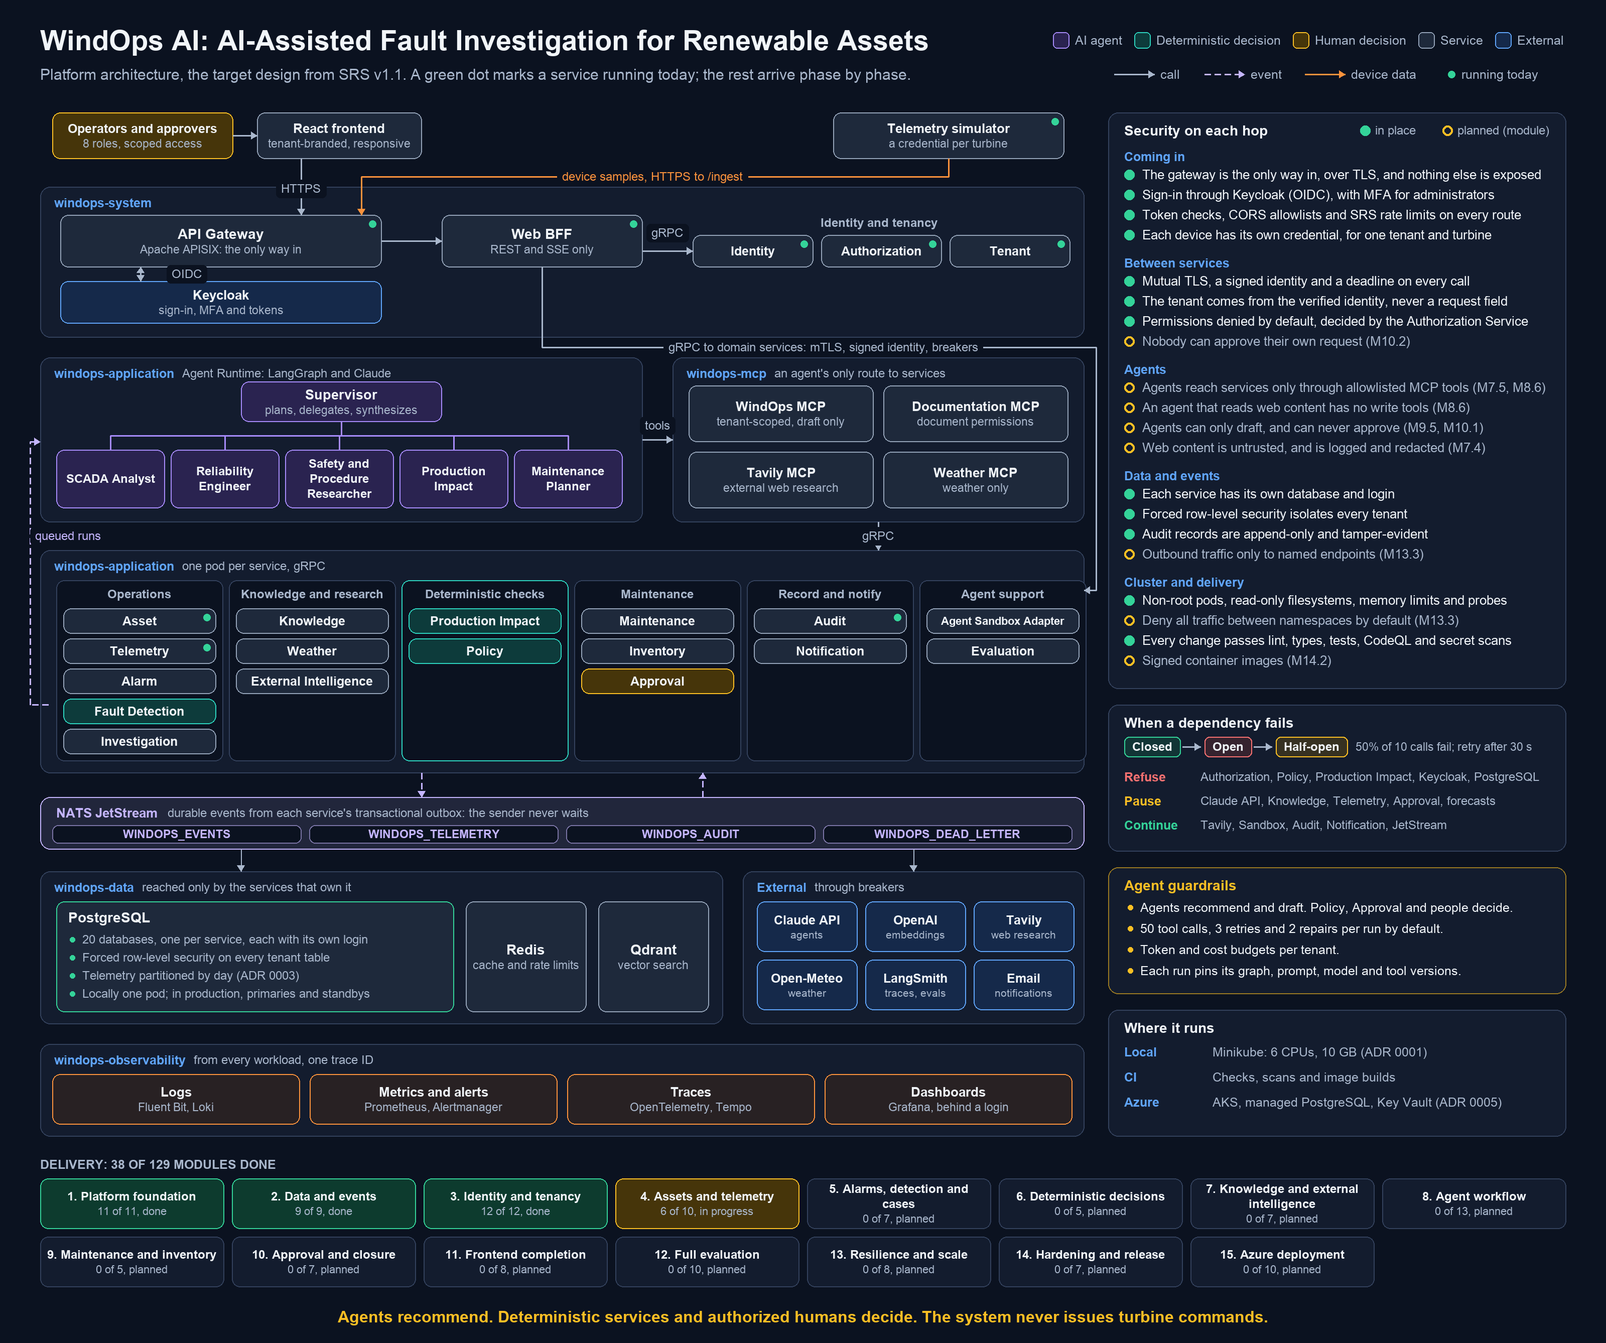
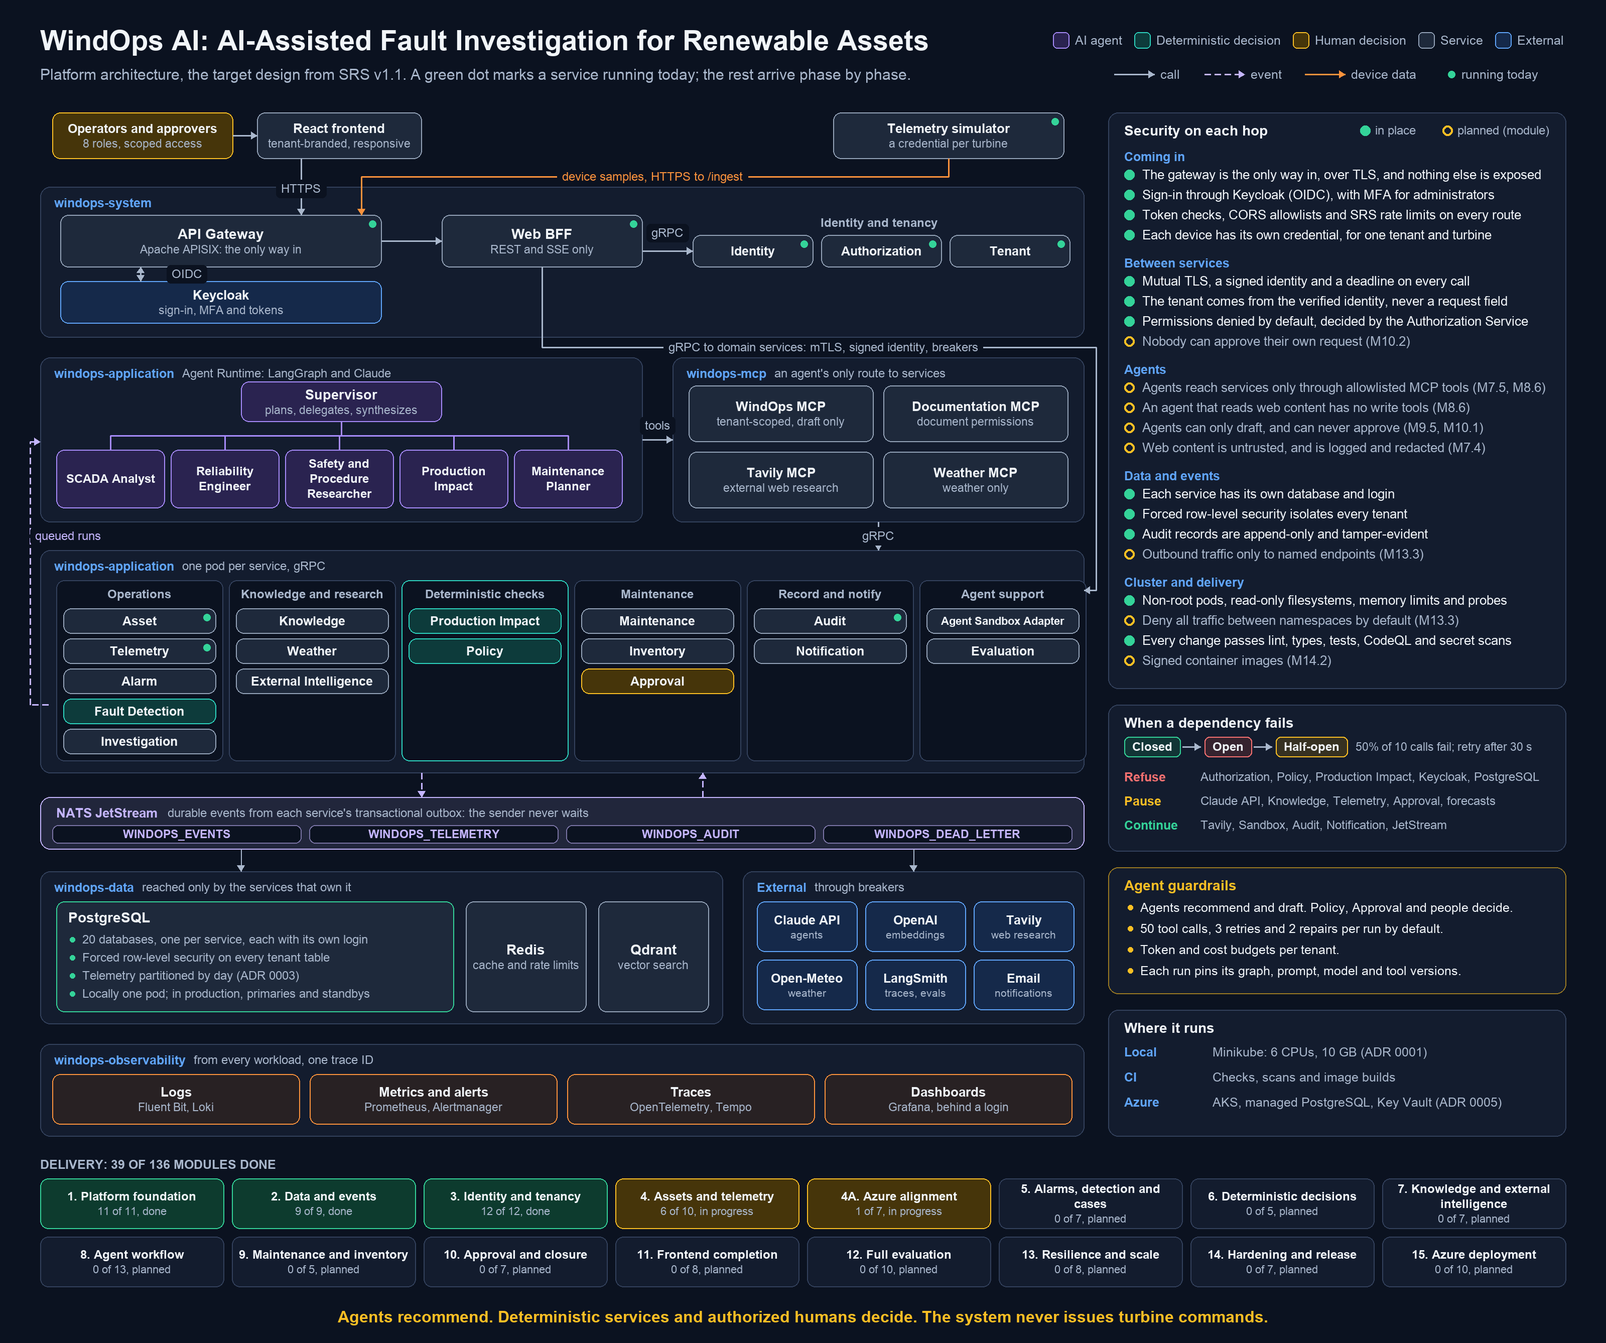
docs(adr): align the platform with Azure's reference architecture (#67)
M4A.1, opening Phase 4A before M4.7 (ADR 0006). The platform will follow
Azure's advanced AKS microservices architecture, on the AKS baseline:

- Azure Service Bus for durable events on Azure, NATS JetStream locally,
  chosen by WINDOPS_ENVIRONMENT, with the outbox unchanged.
- Microsoft Entra Workload ID for Azure resources, with no stored password.
  Internal calls keep mutual TLS and a signed identity.
- Cilium in place of Calico, locally too.
- Azure Monitor, managed Prometheus, Managed Grafana and Application
  Insights on Azure, the self-hosted stack locally.

Nothing is created in Azure without an approved plan and price. The tracker
gains Phase 4A's seven modules, the SRS records the change, Phase 15 becomes
the final deployment and hardening, and the diagram's progress strip reads
phase numbers such as 4A. AZURE_SUBSCRIPTION_ID is documented for .env,
where the real value stays.

diff --git a/tests/test_architecture_diagram.py b/tests/test_architecture_diagram.py
@@ -48,16 +48,18 @@ def test_a_control_is_not_shown_as_planned_once_its_modules_are_done() -> None:
 
 def test_roadmap_reads_all_phases_with_the_tracker_totals() -> None:
     phases = read_phase_progress()
-    assert [number for number, _, _, _ in phases] == list(range(1, 16))
-    table = dict(re.findall(r"^\| (\d+) \| \[[^\]]+\]\([^)]*\) \| (\d+) \|", TRACKER, re.M))
+    expected = [str(n) for n in range(1, 16)]
+    expected.insert(4, "4A")  # Added after Phase 4 by ADR 0006.
+    assert [number for number, _, _, _ in phases] == expected
+    table = dict(re.findall(r"^\| (\d+[A-Z]?) \| \[[^\]]+\]\([^)]*\) \| (\d+) \|", TRACKER, re.M))
     for number, _, _, total in phases:
-        assert int(table[str(number)]) == total
+        assert int(table[number]) == total
 
 
 def test_roadmap_progress_counts_ticked_modules(tmp_path: Path) -> None:
     tracker = tmp_path / "README.md"
     tracker.write_text("## Phase 1: First\n\n- [x] a\n- [ ] b\n\n## Phase 2: Second\n\n- [ ] c\n")
-    assert read_phase_progress(tracker) == [(1, "First", 1, 2), (2, "Second", 0, 1)]
+    assert read_phase_progress(tracker) == [("1", "First", 1, 2), ("2", "Second", 0, 1)]
 
 
 def test_readme_shows_the_one_architecture_diagram() -> None:

diff --git a/scripts/generate/readme_visuals.py b/scripts/generate/readme_visuals.py
@@ -372,17 +372,18 @@ def is_running(name: str) -> bool:
     )
 
 
-def read_phase_progress(tracker: Path = TRACKER) -> list[tuple[int, str, int, int]]:
+def read_phase_progress(tracker: Path = TRACKER) -> list[tuple[str, str, int, int]]:
     """Return each phase's number, name, finished modules and total modules from the tracker."""
     text = tracker.read_text()
     phases = []
-    for match in re.finditer(r"^## Phase (\d+): (.+)$", text, re.M):
+    # A phase is a number, or a number and a letter for one added between two, such as 4A.
+    for match in re.finditer(r"^## Phase (\d+[A-Z]?): (.+)$", text, re.M):
         following = text[match.end() :]
         next_heading = following.find("\n## ")
         section = following if next_heading == -1 else following[:next_heading]
         done = len(re.findall(r"^- \[x\] ", section, re.M))
         total = done + len(re.findall(r"^- \[ \] ", section, re.M))
-        phases.append((int(match.group(1)), match.group(2), done, total))
+        phases.append((match.group(1), match.group(2), done, total))
     return phases
 
 

diff --git a/docs/adr/0006-azure-aligned-platform-services.md b/docs/adr/0006-azure-aligned-platform-services.md
@@ -1,0 +1,67 @@
+# ADR 0006: Align the platform with Azure's reference architecture before M4.7
+
+**Status:** Accepted, 2026-11-09
+
+## Context
+
+The finished system will be presented as an Azure-architected platform. We compared the design with the Azure
+Architecture Center's references. The closest is the [advanced AKS microservices architecture][advanced], built on the
+[AKS baseline][baseline], with the [Protect APIs][apis] pattern at the edge, where APISIX plays API Management's part.
+Our design differed from those references in four places:
+
+| Concern | The references | Ours until now |
+| --- | --- | --- |
+| Durable messaging | Azure Service Bus | NATS JetStream |
+| A workload's identity to Azure services | Microsoft Entra Workload ID | Passwords and connection strings in Kubernetes Secrets |
+| Network plugin and policy | Azure CNI powered by Cilium | Calico |
+| Observability | Azure Monitor, managed Prometheus and Azure Managed Grafana, with Application Insights | Self-hosted Prometheus, Grafana, Loki and Tempo |
+
+ADR 0005 put all Azure work in Phase 15, at the end. Changing these four then would reach into every service late in
+the project. Doing it now, while there are still few services, costs less.
+
+The system must keep running on the 16 GB laptop (ADR 0001), where Service Bus, Workload ID and Azure Monitor do not
+exist, and Microsoft's Service Bus emulator needs about 2 GB more than the local profile has.
+
+## Decision
+
+- **Add Phase 4A, Azure alignment, before M4.7.** M4.7 waits until it is done.
+- **Every Azure service sits behind the same interface as its local counterpart.** Settings choose which one runs,
+  so a service's code is the same everywhere:
+
+  | `WINDOPS_ENVIRONMENT` | Events | Identity to data stores | Telemetry |
+  | --- | --- | --- | --- |
+  | `local` | NATS JetStream | Passwords from Kubernetes Secrets | The self-hosted stack |
+  | `dev`, `live` | Azure Service Bus | Entra Workload ID, with no stored password | Azure Monitor, managed Prometheus, Managed Grafana and Application Insights |
+
+  `WINDOPS_EVENTS_BACKEND` can override the choice of events, so a laptop can be pointed at a real Service Bus to test
+  it.
+- **Service Bus:** a topic for each subject family, a subscription for each consumer, its native dead-lettering in
+  place of our dead-letter stream, and the transactional outbox unchanged. The same event tests run against both
+  back ends, and once against a real Service Bus namespace.
+- **Workload ID** replaces stored passwords only for Azure resources: Service Bus, Azure Database for PostgreSQL and
+  Key Vault. It does not replace our own service-to-service security. Every internal call still needs mutual TLS, a
+  signed identity and a deadline.
+- **Cilium** replaces Calico everywhere, locally too, as Minikube supports it. Network policies, from M13.3, are
+  written for Cilium.
+- **Azure Monitor:** the services keep exporting OpenTelemetry. On Azure, traces and logs go to Application Insights
+  and Log Analytics, metrics to managed Prometheus, and our dashboards and alert rules are kept as code for Managed
+  Grafana. Locally, the self-hosted stack stays.
+- **Nothing is created in Azure without an approved plan with its monthly price.** This machine uses the Azure CLI's
+  signed-in session, and CI uses GitHub OIDC (ADR 0005). No Azure credential is ever a setting or a file in the
+  repository. The subscription ID, which is not secret but names the account, is `AZURE_SUBSCRIPTION_ID` in `.env`,
+  not `.env.example`. Only the deployment scripts read it, so it is not a `WINDOPS_` setting and never reaches the cluster.
+
+## Consequences
+
+- Phase 4A has seven modules. Stage 1, the code, documents and local proof, costs nothing. Stage 2 creates real Azure
+  resources to prove them, after the plan and price are approved.
+- Phase 15 becomes smaller: the full deployment, hardening and the presentation. Its foundation, Service Bus,
+  Workload ID and Azure Monitor work move earlier, into Phase 4A.
+- Two event back ends must stay equivalent. A shared test suite keeps them so.
+- Rebuilding the local cluster on Cilium removes its data. Everything on it is synthetic and can be seeded again.
+- Kept as they are, as ADR 0005 decided: APISIX as the API gateway, behind Application Gateway WAF on Azure; Redis,
+  Qdrant and Keycloak in the cluster; PostgreSQL with one database per service.
+
+[advanced]: https://learn.microsoft.com/en-us/azure/architecture/reference-architectures/containers/aks-microservices/aks-microservices-advanced
+[baseline]: https://learn.microsoft.com/en-us/azure/architecture/reference-architectures/containers/aks/baseline-aks
+[apis]: https://learn.microsoft.com/en-us/azure/architecture/web-apps/api-management/architectures/protect-apis

diff --git a/README.md b/README.md
@@ -49,7 +49,7 @@ animation illustrates the specified workflow, not a recording.
 
 ## Architecture
 
-[![WindOps AI platform architecture: AI-assisted fault investigation for renewable assets. Operators reach the React frontend, and the telemetry simulator sends device samples, both over HTTPS through the APISIX API Gateway, which checks sign-in with Keycloak. In the windops-system namespace, Web BFF calls the Identity, Authorization and Tenant services over gRPC. In windops-application, the Agent Runtime runs a Supervisor and five specialist agents, which reach services only through four MCP servers in windops-mcp. Twenty domain services, grouped by capability, call each other over gRPC with mutual TLS, a signed identity and circuit breakers, and publish durable events to four NATS JetStream streams. Each service owns its PostgreSQL database with row-level security, alongside Redis and Qdrant in windops-data, and external providers are reached through breakers. Every workload sends logs, metrics and traces to the observability stack. A side column lists the security controls on each hop, in place or planned with their module, the circuit breaker's states and failure behaviors, the agent guardrails and where the system runs. A strip shows delivery progress across all 15 phases.](docs/assets/platform-architecture.png)](docs/assets/platform-architecture.png)
+[![WindOps AI platform architecture: AI-assisted fault investigation for renewable assets. Operators reach the React frontend, and the telemetry simulator sends device samples, both over HTTPS through the APISIX API Gateway, which checks sign-in with Keycloak. In the windops-system namespace, Web BFF calls the Identity, Authorization and Tenant services over gRPC. In windops-application, the Agent Runtime runs a Supervisor and five specialist agents, which reach services only through four MCP servers in windops-mcp. Twenty domain services, grouped by capability, call each other over gRPC with mutual TLS, a signed identity and circuit breakers, and publish durable events to four NATS JetStream streams. Each service owns its PostgreSQL database with row-level security, alongside Redis and Qdrant in windops-data, and external providers are reached through breakers. Every workload sends logs, metrics and traces to the observability stack. A side column lists the security controls on each hop, in place or planned with their module, the circuit breaker's states and failure behaviors, the agent guardrails and where the system runs. A strip shows delivery progress across every phase.](docs/assets/platform-architecture.png)](docs/assets/platform-architecture.png)
 
 <sub>Select the diagram to view it full size. A green dot marks a service running today. Security controls marked
 planned name the module that delivers them; tests fail if a control is still shown as planned once its modules are
@@ -94,7 +94,7 @@ The [implementation tracker](docs/phases/README.md) lists every phase and module
 | Document | What it covers |
 | --- | --- |
 | [Software requirements (SRS v1.1)](docs/srs.md) | Scope, fixed decisions, requirement IDs and acceptance criteria. The source of truth |
-| [Implementation tracker](docs/phases/README.md) | All 15 phases and their modules, with progress and exit gates |
+| [Implementation tracker](docs/phases/README.md) | Every phase and its modules, with progress and exit gates |
 | [Architecture](docs/architecture.md) | How a request flows through the system |
 | [Microservices](docs/microservices.md) and [service map](docs/service-map.md) | Every service's calls and events, and its behavior when a dependency fails |
 | [gRPC contracts](docs/grpc-contracts.md) and [events](docs/events.md) | Versioning, breaking changes, subjects, dead letters and alerts |
@@ -112,6 +112,7 @@ The [implementation tracker](docs/phases/README.md) lists every phase and module
 | [0003](docs/adr/0003-postgresql-without-timescaledb.md) | PostgreSQL without TimescaleDB, and the local and production database designs |
 | [0004](docs/adr/0004-failure-behavior-for-every-dependency.md) | A defined failure behavior for every dependency |
 | [0005](docs/adr/0005-azure-deployment-as-the-final-phase.md) | Azure deployment as the final phase, and the services it uses |
+| [0006](docs/adr/0006-azure-aligned-platform-services.md) | The platform aligned with Azure's reference architecture: Service Bus, Workload ID, Cilium and Azure Monitor |
 
 ## Getting started
 

diff --git a/docs/phases/README.md b/docs/phases/README.md
@@ -1,10 +1,11 @@
 # Implementation tracker
 
 This is the single record of what has been built and what comes next. It breaks
-the 15 phases in [SRS v1.1 section 12](../srs.md#12-delivery-phases) into modules.
+the 15 phases in [SRS v1.1 section 12](../srs.md#12-delivery-phases) into modules, with Phase 4A added
+between Phases 4 and 5 by [ADR 0006](../adr/0006-azure-aligned-platform-services.md).
 The SRS defines the requirements, and this file tracks progress against them.
 
-**Current position:** Phase 4. Next up is M4.7.
+**Current position:** Phase 4A, Azure alignment ([ADR 0006](../adr/0006-azure-aligned-platform-services.md)). Next up is M4A.2. M4.7 waits until Phase 4A is done.
 
 ## How to use this tracker
 
@@ -38,6 +39,7 @@ The SRS defines the requirements, and this file tracks progress against them.
 | 2 | [Data and events](#phase-2-data-and-events) | 9 | Done |
 | 3 | [Identity and tenancy](#phase-3-identity-and-tenancy) | 12 | Done |
 | 4 | [Assets and telemetry](#phase-4-assets-and-telemetry) | 10 | In progress |
+| 4A | [Azure alignment](#phase-4a-azure-alignment) | 7 | In progress |
 | 5 | [Alarms, detection and cases](#phase-5-alarms-detection-and-cases) | 7 | Not started |
 | 6 | [Deterministic decisions](#phase-6-deterministic-decisions) | 5 | Not started |
 | 7 | [Knowledge and external intelligence](#phase-7-knowledge-and-external-intelligence) | 7 | Not started |
@@ -115,6 +117,22 @@ The SRS defines the requirements, and this file tracks progress against them.
 - [ ] **M4.8 Fleet screens:** fleet overview, turbine detail and telemetry charts (SRS 4.11).
 - [ ] **M4.9 Freshness visibility:** Data Freshness dashboard, starting with telemetry delay (SRS 10.3).
 - [ ] **M4.10 Exit gate:** a seeded fault profile streams into storage with the correct quality labels.
+
+## Phase 4A: Azure alignment
+
+Added by [ADR 0006](../adr/0006-azure-aligned-platform-services.md), before M4.7, so the system follows Azure's
+[advanced AKS microservices architecture](https://learn.microsoft.com/en-us/azure/architecture/reference-architectures/containers/aks-microservices/aks-microservices-advanced).
+`WINDOPS_ENVIRONMENT` chooses each service's back end: `local` keeps today's, and `dev` or `live` uses Azure's. Stage
+1, the code and its local proof, costs nothing. Stage 2, M4A.6 and the live tests, creates Azure resources only after
+their plan and monthly price are approved.
+
+- [x] **M4A.1 Azure alignment decision:** ADR 0006, this phase, the SRS and the settings. Done 2026-11-09.
+- [ ] **M4A.2 Cilium:** the local cluster on Cilium in place of Calico, with every cluster check passing on it.
+- [ ] **M4A.3 Event back ends:** one events interface, with NATS JetStream for `local` and Azure Service Bus for `dev` and `live`, the outbox unchanged, one test suite for both, and one run against a real Service Bus namespace.
+- [ ] **M4A.4 Workload identity:** Microsoft Entra Workload ID for Service Bus, Azure Database for PostgreSQL and Key Vault, with no stored password, and passwords as today locally.
+- [ ] **M4A.5 Azure Monitor:** OpenTelemetry to Application Insights and Log Analytics, metrics to managed Prometheus, and the dashboards and alert rules as code for Azure Managed Grafana.
+- [ ] **M4A.6 Azure foundation and live proof:** the Azure resources in Bicep, created from an approved plan and price, with Service Bus, Workload ID and monitoring proven on them.
+- [ ] **M4A.7 Azure presentation:** the README and its diagram show the Azure architecture, and the local profile beside it.
 
 ## Phase 5: Alarms, detection and cases
 
@@ -224,6 +242,8 @@ The SRS defines the requirements, and this file tracks progress against them.
 - [ ] **M14.7 Exit gate:** no critical findings remain, and a clean `make` bootstrap passes the smoke and end-to-end tests.
 
 ## Phase 15: Azure deployment
+
+Phase 4A builds the Azure services, Workload ID, monitoring and their Bicep first ([ADR 0006](../adr/0006-azure-aligned-platform-services.md)). This phase deploys the whole system on them, hardens it and presents it.
 
 - [ ] **M15.1 Azure decisions:** subscription, region, budget with an alert, domain, and refreshed prices and quota ([ADR 0005](../adr/0005-azure-deployment-as-the-final-phase.md)).
 - [ ] **M15.2 Foundation:** resource group, Container Registry and Key Vault in Bicep, with GitHub OIDC login and no stored Azure password.

diff --git a/docs/srs.md b/docs/srs.md
@@ -11,7 +11,7 @@ SRS v1.1 keeps every v1.0 feature, makes gRPC, microservices, containers and cir
 | Project | WindOps AI: agentic wind farm operations and predictive maintenance platform |
 | Version and status | 1.1, baseline for design and implementation |
 | Supersedes | Software Requirements Specification v1.0, 4 November 2026 |
-| Deployment target | Kubernetes on Minikube for development and demonstration, then Azure Kubernetes Service as the final phase ([ADR 0005](adr/0005-azure-deployment-as-the-final-phase.md)) |
+| Deployment target | Kubernetes on Minikube for development and demonstration, then Azure Kubernetes Service as the final phase ([ADR 0005](adr/0005-azure-deployment-as-the-final-phase.md)), with the platform aligned to Azure's reference architecture in Phase 4A ([ADR 0006](adr/0006-azure-aligned-platform-services.md)) |
 | Readiness claim | Portfolio-grade platform on synthetic data, not a certified industrial control system |
 | Requirement words | "Shall" is mandatory, "should" is recommended, "may" is optional |
 
@@ -24,7 +24,7 @@ SRS v1.1 keeps every v1.0 feature, makes gRPC, microservices, containers and cir
 | No owner for energy and financial impact | Production Impact Service added | 4, 7 |
 | No owner for policy checks and thresholds | Policy Service added | 4, 7 |
 | Identity Service overlapped Keycloak | Service keeps a defined scope around Keycloak | 7, 9 |
-| No async messaging | NATS JetStream and a transactional outbox | 7 |
+| No async messaging | NATS JetStream locally, or Azure Service Bus on Azure, with a transactional outbox ([ADR 0006](adr/0006-azure-aligned-platform-services.md)) | 7 |
 | No REST translation layer | Web BFF Service added, with OpenAPI | 7 |
 | No live progress for long runs | Server-sent events through the BFF | 7 |
 | Telemetry storage undefined | PostgreSQL time partitions, with retention and sample rates ([ADR 0003](adr/0003-postgresql-without-timescaledb.md)) | 8 |
@@ -469,7 +469,7 @@ The groups are for reading only. Each named service still deploys and scales on 
 | Frontend | React and TypeScript in its own image and workload |
 | Public API | REST and server-sent events over HTTPS through Apache APISIX and Web BFF |
 | Internal synchronous API | gRPC and versioned Protocol Buffers |
-| Internal events | NATS JetStream with Protobuf payloads |
+| Internal events | NATS JetStream locally, or Azure Service Bus on Azure, with Protobuf payloads (ADR 0006) |
 | Backend | Python, with grpc.aio for internal APIs and FastAPI for public, health and metrics endpoints |
 | Agents | LangChain, Deep Agents, LangGraph and Claude |
 | Relational and telemetry data | PostgreSQL, and Alembic per service |
@@ -604,7 +604,7 @@ enum Quality {
 
 ### 7.6 Events and consistency
 
-- **EVT-001:** Durable domain events shall use JetStream with versioned Protobuf schemas.
+- **EVT-001:** Durable domain events shall use JetStream, or Azure Service Bus on Azure (ADR 0006), with versioned Protobuf schemas.
 - **EVT-002:** State changes and their events shall be committed together using a transactional outbox.
 - **EVT-003:** Consumers shall be idempotent, and repeatedly failing messages shall go to a dead-letter stream with an alert.
 - **EVT-004:** Audit events shall be durable. An approval is not reported successful until its outbox entry is committed.
@@ -1034,7 +1034,7 @@ Delivery runs through 15 phases, ordered by dependency and gated by tests rather
 
 ![Delivery roadmap in four stages. Platform base covers phases 1 to 3, deterministic core covers phases 4 to 6, agents and action covers phases 7 to 10, and proof and release covers phases 11 to 14. Each stage has an exit condition that the next stage depends on.](assets/srs/delivery-roadmap.svg)
 
-*Delivery roadmap · phases 1 to 14 in 4 stages. Phase 15 then deploys the finished system to Azure.*
+*Delivery roadmap · phases 1 to 14 in 4 stages. Phase 4A aligns the platform with Azure after Phase 4 (ADR 0006), and Phase 15 deploys the finished system to Azure.*
 
 Agents arrive after the deterministic rules exist, so they never need to invent thresholds or calculations.
 
